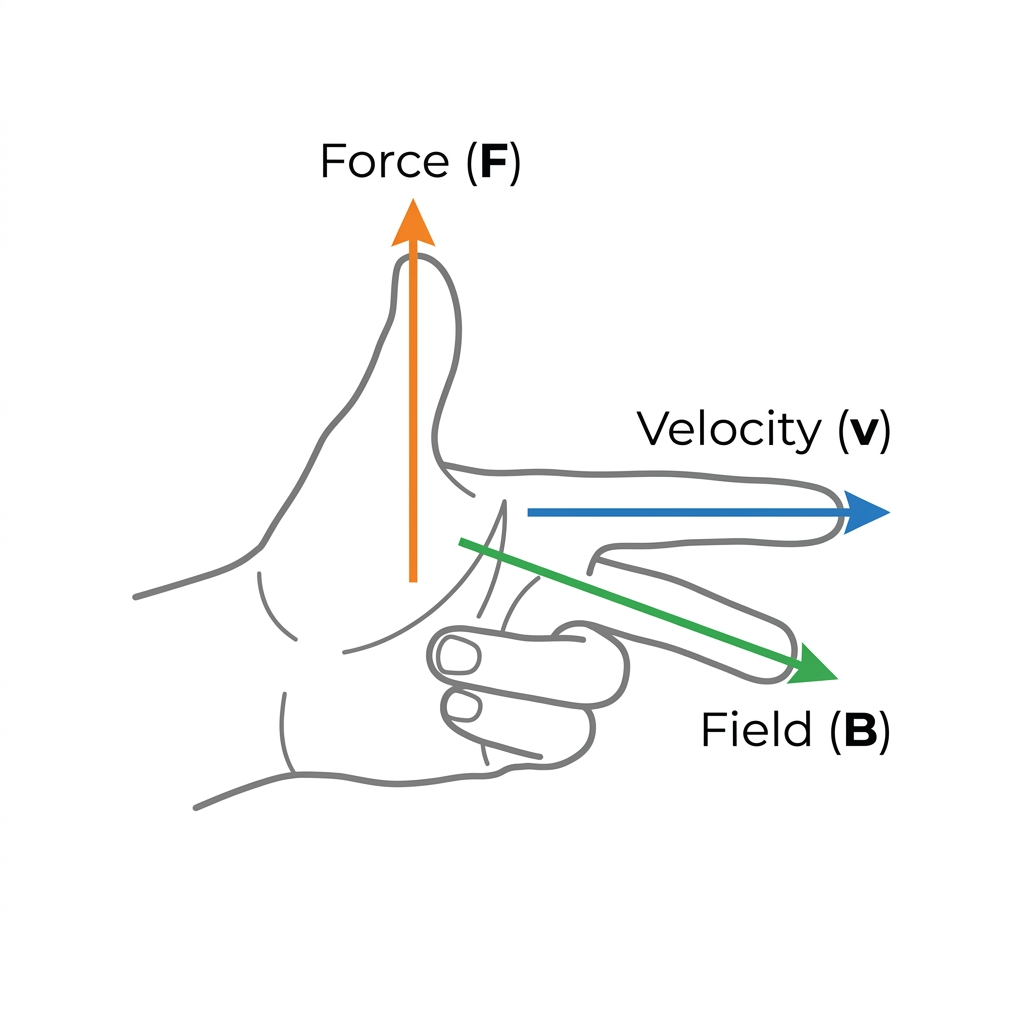
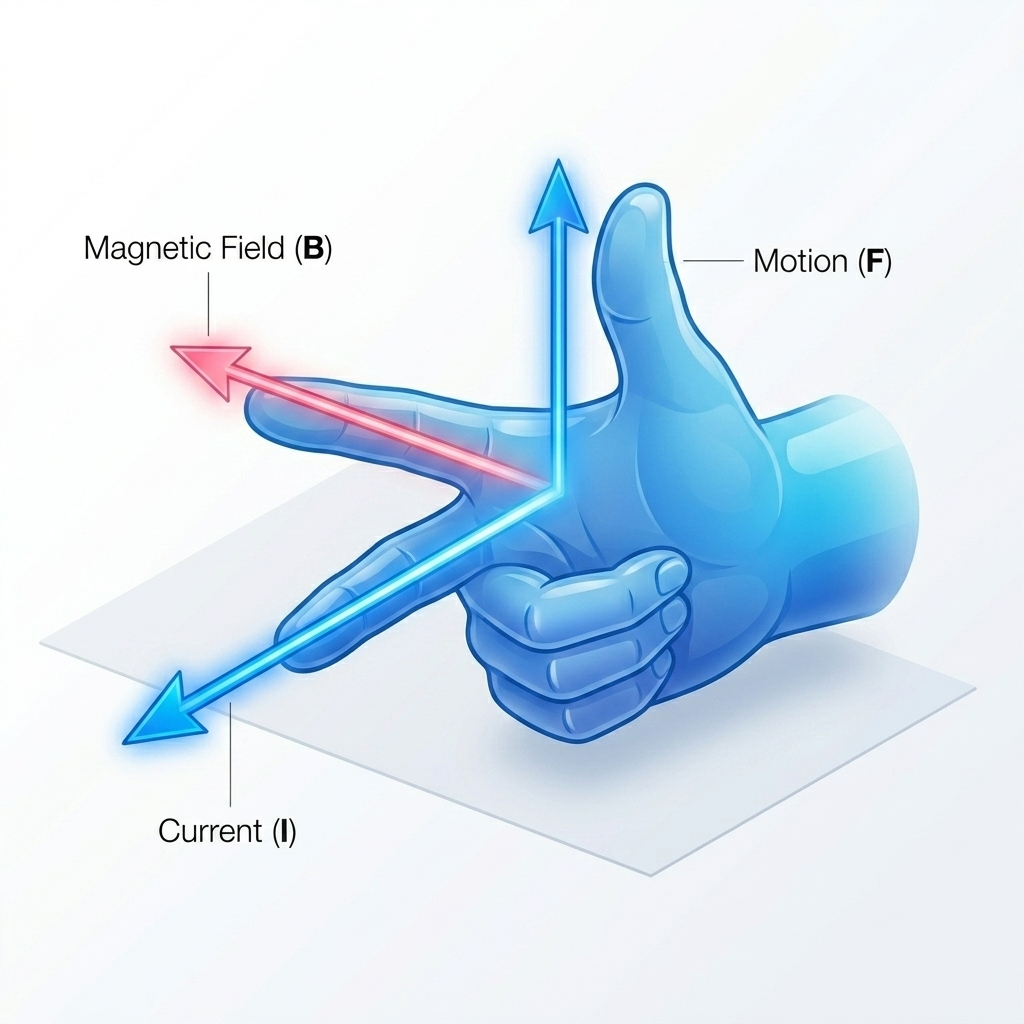
feat: add macroscopic PIP status panel and refine physics instructional text

diff --git a/ipad-hall-effect/index.html b/ipad-hall-effect/index.html
@@ -24,7 +24,18 @@
 <body>
     <div id="canvas-container"></div>
 
-    <!-- Top-Right Info Button -->
+    <!-- Macroscopic PIP Panel (Only active in micro focus mode) -->
+    <div id="pip-container" class="pip-panel">
+        <div class="pip-header">
+            <span class="pip-title"><span style="font-size: 0.85rem; margin-right: 4px;"></span>iPad Status</span>
+            <span id="pip-screen-badge" class="pip-status-badge success">Awake</span>
+        </div>
+        <div class="pip-body">
+            <canvas id="pip-canvas"></canvas>
+        </div>
+    </div>
+
+    <!-- Top-Right Info Button (now positioned in top-left via CSS) -->
     <div class="info-btn-container">
         <button id="info-trigger-btn" class="info-trigger-btn">?</button>
     </div>
@@ -90,15 +101,15 @@
                         <ol class="step-list">
                             <li>
                                 <span class="step-num">1</span>
-                                <span class="step-text"><strong>Velocity Vector (v)</strong>: Point the four fingers of your right hand straight in the direction of the electron's actual movement. In our chip, electrons flow to the <strong>left</strong>, so point your fingers to the left.</span>
+                                <span class="step-text"><strong>Velocity Vector (v)</strong>: Point the index finger of your right hand in the direction of the electron's movement. In our chip, electrons flow to the <strong>left</strong>, so point your index finger to the left.</span>
                             </li>
                             <li>
                                 <span class="step-num">2</span>
-                                <span class="step-text"><strong>Curl to Magnetic Field (B)</strong>: Curl your fingers 90 degrees into the direction of the magnetic field <strong>B</strong>. Since B points <strong>into the screen</strong>, curl your fingers forward into the screen.</span>
+                                <span class="step-text"><strong>Magnetic Field (B)</strong>: Point your middle finger perpendicular to your hand in the direction of the magnetic field <strong>B</strong>. Since B points <strong>out of the screen (towards you)</strong>, point your middle finger straight out towards you.</span>
                             </li>
                             <li>
                                 <span class="step-num">3</span>
-                                <span class="step-text"><strong>Cross Product Direction (v &times; B)</strong>: Extend your thumb perpendicular to your fingers. Your thumb points straight <strong>upwards</strong>. This is the direction of the cross product <strong>v &times; B</strong>.</span>
+                                <span class="step-text"><strong>Cross Product Direction (v &times; B)</strong>: Extend your thumb perpendicular to both fingers. Your thumb points straight <strong>upwards</strong>. This is the direction of the cross product <strong>v &times; B</strong>.</span>
                             </li>
                             <li>
                                 <span class="step-num">4</span>
@@ -109,7 +120,7 @@
                         <!-- Diagram for Right Hand Rule -->
                         <div class="science-img-container">
                             <img src="right-hand-rule.png" alt="Right-Hand Rule for Lorentz Force" class="science-img" style="max-height: 180px;">
-                            <div class="img-caption">Figure 2: Right-Hand Rule (Vector Cross Product). The index finger points in the direction of velocity <strong>v</strong>, the middle finger points along magnetic Field <strong>B</strong>, and the thumb indicates the cross product direction <strong>v &times; B</strong> (upwards). For a negative electron, the resulting Lorentz Force <strong>F</strong> points opposite to the thumb (downwards).</div>
+                            <div class="img-caption">Figure 2: Right-Hand Rule (Vector Cross Product). The index finger points in the direction of velocity <strong>v</strong> (left), the middle finger points along magnetic Field <strong>B</strong> (out of screen towards you), and the thumb indicates the cross product direction <strong>v &times; B</strong> (upwards). For a negative electron (q = -e), the resulting Lorentz Force <strong>F</strong> points opposite to the thumb (downwards).</div>
                         </div>
 
                         <p><strong>Physics Conclusion:</strong> The Right-Hand Rule correctly predicts that the Lorentz Force pushes the flowing electrons toward the <strong>bottom edge (negatively charged)</strong>, leaving a deficit of electrons—and thus a <strong>positive charge—on the top edge</strong>. This establishes the potential difference that generates the Hall Voltage!</p>

diff --git a/ipad-hall-effect/main.js b/ipad-hall-effect/main.js
@@ -10,6 +10,11 @@ scene.background = new THREE.Color(0xffffff); // Clean white background
 const macroCamera = new THREE.PerspectiveCamera(45, window.innerWidth / window.innerHeight, 0.1, 200);
 macroCamera.position.set(-5, 18, 22);
 
+// PIP static camera for macroscopic status monitor
+const pipCamera = new THREE.PerspectiveCamera(45, 1, 0.1, 200);
+pipCamera.position.set(-5, 15, 18);
+pipCamera.lookAt(new THREE.Vector3(-5, 0, 0));
+
 const renderer = new THREE.WebGLRenderer({ antialias: true, alpha: false });
 renderer.setSize(window.innerWidth, window.innerHeight);
 renderer.setPixelRatio(Math.min(window.devicePixelRatio, 2));
@@ -18,6 +23,14 @@ renderer.shadowMap.type = THREE.PCFSoftShadowMap;
 renderer.setScissorTest(true);
 renderer.localClippingEnabled = true;  // needed for per-material clipping planes
 container.appendChild(renderer.domElement);
+
+// PIP Renderer — dedicated small canvas for rounded-corner macroscopic view
+const pipCanvasEl = document.getElementById('pip-canvas');
+const pipRenderer = new THREE.WebGLRenderer({ canvas: pipCanvasEl, antialias: true, alpha: false });
+pipRenderer.setPixelRatio(Math.min(window.devicePixelRatio, 2));
+pipRenderer.shadowMap.enabled = true;
+pipRenderer.shadowMap.type = THREE.PCFSoftShadowMap;
+pipRenderer.localClippingEnabled = true;
 
 // Independent Controls
 // Single OrbitControls over the entire canvas
@@ -589,6 +602,8 @@ const magStatusEl = document.getElementById('magnetic-field-status');
 const voltageEl = document.getElementById('sensor-voltage');
 const screenStateEl = document.getElementById('screen-state');
 const explanationEl = document.getElementById('explanation-text');
+const pipContainer = document.getElementById('pip-container');
+const pipScreenBadge = document.getElementById('pip-screen-badge');
 
 function updateUI(angleDeg) {
     const angleRad = THREE.MathUtils.degToRad(angleDeg);
@@ -641,6 +656,17 @@ function updateUI(angleDeg) {
         screenStateEl.textContent = 'Awake'; screenStateEl.className = 'data-value success';
         explanationEl.innerHTML = '<strong>Cover Open:</strong> The magnetic field is absent. Electrons flow straight through the sensor with no deflection — the Hall Voltage drops to near 0V, signaling the processor to keep the screen awake.';
         // sensorRing removed
+    }
+
+    // Dynamic PIP screen status update
+    if (pipScreenBadge) {
+        if (!isScreenOn) {
+            pipScreenBadge.textContent = 'Sleep';
+            pipScreenBadge.className = 'pip-status-badge warning';
+        } else {
+            pipScreenBadge.textContent = 'Awake';
+            pipScreenBadge.className = 'pip-status-badge success';
+        }
     }
 }
 
@@ -727,12 +753,35 @@ function animate() {
     
     updateScreenTexture();
     
-    // Single full-screen render — micro elements are embedded inside the iPad
+    // Render main viewport
     const width = window.innerWidth;
     const height = window.innerHeight;
     renderer.setViewport(0, 0, width, height);
     renderer.setScissor(0, 0, width, height);
     renderer.render(scene, macroCamera);
+
+    // PIP macroscopic overview (only when focused on sensor)
+    if (focusedOnSensor) {
+        if (pipContainer) {
+            pipContainer.classList.add('active');
+            const pipBody = pipContainer.querySelector('.pip-body');
+            if (pipBody) {
+                const rect = pipBody.getBoundingClientRect();
+                const pipW = Math.floor(rect.width);
+                const pipH = Math.floor(rect.height);
+                if (pipW > 0 && pipH > 0) {
+                    pipRenderer.setSize(pipW, pipH, false);
+                    pipCamera.aspect = pipW / pipH;
+                    pipCamera.updateProjectionMatrix();
+                    pipRenderer.render(scene, pipCamera);
+                }
+            }
+        }
+    } else {
+        if (pipContainer) {
+            pipContainer.classList.remove('active');
+        }
+    }
     
     // Camera fly-to animation
     if (cameraFly.active) {

diff --git a/ipad-hall-effect/style.css b/ipad-hall-effect/style.css
@@ -267,6 +267,88 @@ input[type=range]::-webkit-slider-runnable-track {
     pointer-events: auto;
 }
 
+/* Macroscopic PIP Panel */
+.pip-panel {
+    position: absolute;
+    top: 20px;
+    left: 20px;
+    width: 240px;
+    height: 180px;
+    padding: 0;
+    overflow: hidden;
+    z-index: 5;
+    display: flex;
+    flex-direction: column;
+    pointer-events: auto;
+    opacity: 0;
+    transform: scale(0.9) translateY(-10px);
+    transition: opacity 0.4s cubic-bezier(0.16, 1, 0.3, 1), transform 0.4s cubic-bezier(0.16, 1, 0.3, 1);
+    box-shadow: 0 10px 30px rgba(0, 0, 0, 0.15);
+    background: transparent; /* center must be transparent for WebGL canvas underneath */
+    border: 1px solid var(--panel-border);
+    border-radius: 16px;
+}
+
+.pip-panel.active {
+    opacity: 1;
+    transform: scale(1) translateY(0);
+}
+
+.pip-header {
+    display: flex;
+    justify-content: space-between;
+    align-items: center;
+    padding: 0.6rem 1rem;
+    background: var(--panel-bg);
+    backdrop-filter: blur(20px);
+    -webkit-backdrop-filter: blur(20px);
+    border-bottom: 1px solid var(--panel-border);
+    z-index: 2; /* always on top of body mask */
+}
+
+.pip-title {
+    font-size: 0.8rem;
+    font-weight: 600;
+    color: var(--text-primary);
+    letter-spacing: -0.2px;
+    display: flex;
+    align-items: center;
+}
+
+.pip-status-badge {
+    font-size: 0.65rem;
+    font-weight: 600;
+    padding: 0.15rem 0.5rem;
+    border-radius: 10px;
+    text-transform: uppercase;
+    letter-spacing: 0.3px;
+}
+
+.pip-status-badge.success {
+    background: rgba(52, 199, 89, 0.12);
+    color: var(--success);
+}
+
+.pip-status-badge.warning {
+    background: rgba(255, 159, 10, 0.12);
+    color: var(--warning);
+}
+
+.pip-body {
+    flex: 1;
+    position: relative;
+    overflow: hidden;
+    border-radius: 0 0 15px 15px; /* match container bottom corners */
+}
+
+/* PIP Canvas — true rounded corners via CSS clipping */
+#pip-canvas {
+    display: block;
+    width: 100%;
+    height: 100%;
+    border-radius: 0 0 15px 15px;
+}
+
 .info-trigger-btn {
     display: flex;
     align-items: center;
@@ -686,5 +768,65 @@ input[type=range]::-webkit-slider-runnable-track {
         height: 34px;
         font-size: 1rem;
     }
+
+    /* PIP Panel Mobile Optimization */
+    .pip-panel {
+        top: 12px;
+        left: 12px;
+        width: 180px;
+        height: 140px;
+        border-radius: 12px;
+    }
+
+    .pip-header {
+        padding: 0.4rem 0.7rem;
+    }
+
+    .pip-title {
+        font-size: 0.7rem;
+    }
+
+    .pip-status-badge {
+        font-size: 0.55rem;
+        padding: 0.1rem 0.4rem;
+    }
+
+    .pip-body,
+    #pip-canvas {
+        border-radius: 0 0 11px 11px;
+    }
 }
 
+/* Ultra-small screens (iPhone SE, etc.) */
+@media (max-width: 420px) {
+    .pip-panel {
+        top: 8px;
+        left: 8px;
+        width: 140px;
+        height: 110px;
+        border-radius: 10px;
+    }
+
+    .pip-header {
+        padding: 0.3rem 0.5rem;
+    }
+
+    .pip-title {
+        font-size: 0.6rem;
+    }
+
+    .pip-title span:first-child {
+        display: none; /* hide Apple logo on tiny screens */
+    }
+
+    .pip-status-badge {
+        font-size: 0.5rem;
+        padding: 0.1rem 0.3rem;
+        border-radius: 6px;
+    }
+
+    .pip-body,
+    #pip-canvas {
+        border-radius: 0 0 9px 9px;
+    }
+}
